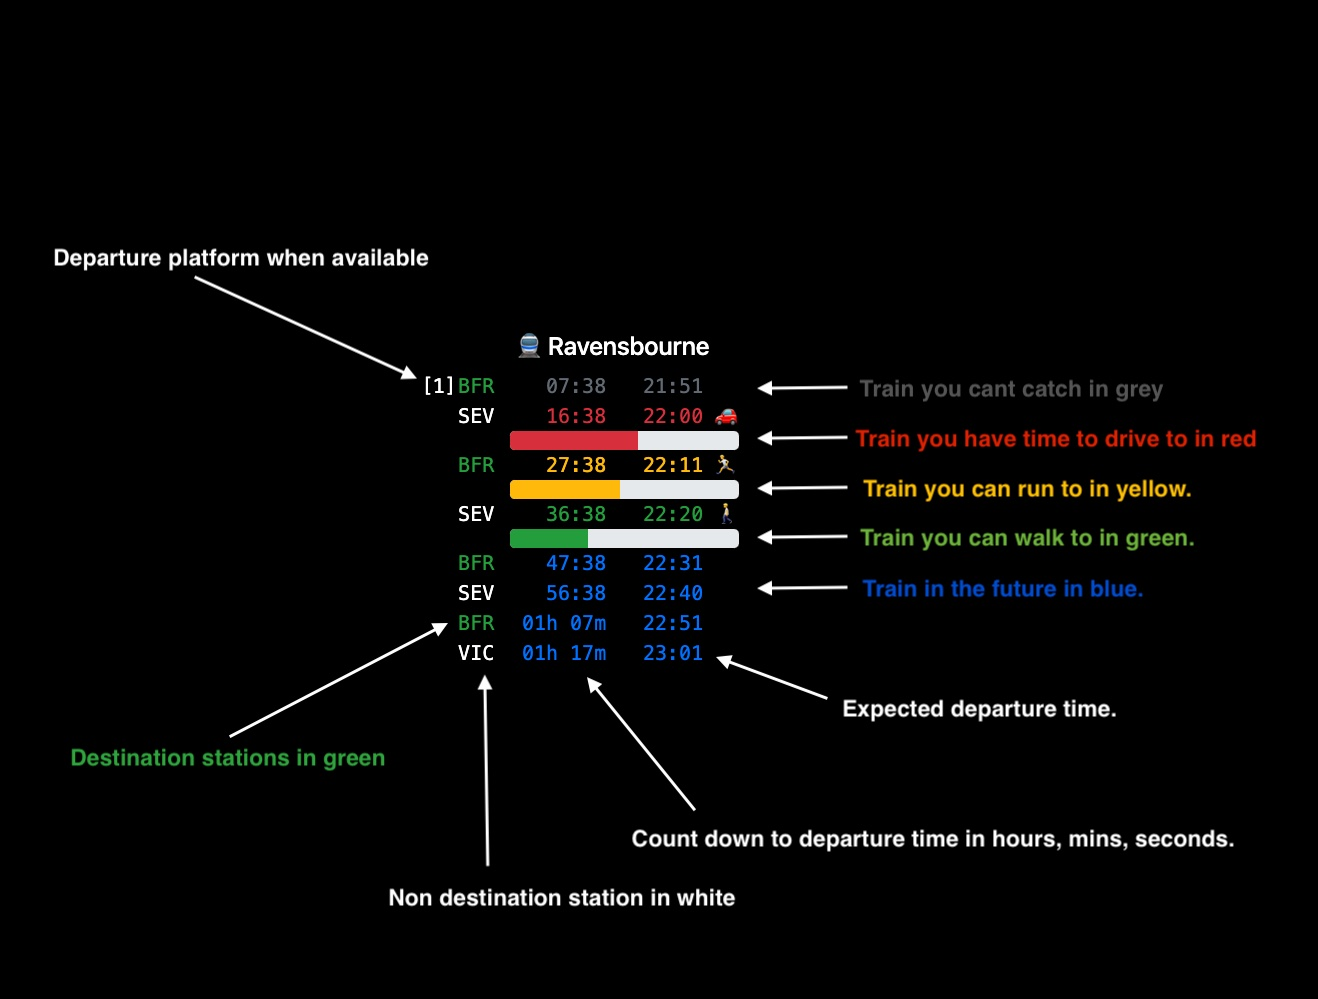
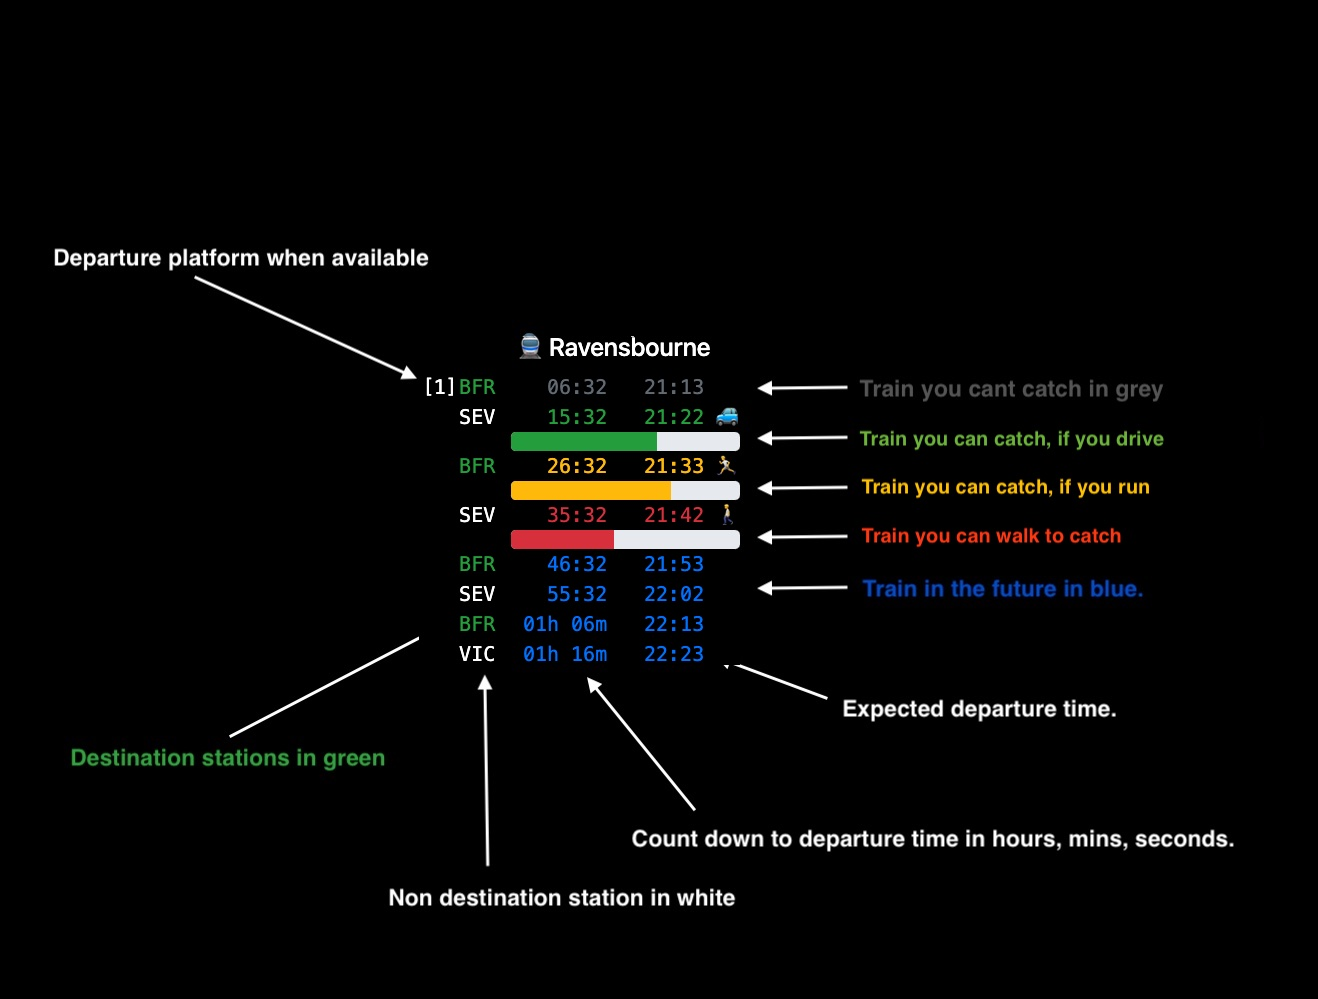
Reversing train transit colours - because ;)

Changed region(s): [[0.3111, 0.3413, 0.5599, 0.6827], [0.6533, 0.4344, 0.9643, 0.4965], [0.6533, 0.5275, 0.9021, 0.5586]]

diff --git a/website/js/travel.js b/website/js/travel.js
@@ -148,7 +148,7 @@ function get_boundary_window( transport, transportType, time ){
         boundaryWindow.start = transport.minimumRunTransitTimeStamp;
         boundaryWindow.end =  transport.minimumDriveTransitTimeStamp;
         boundaryWindow.name = ALMOST_OUT_OF_TIME;
-        boundaryWindow.emoji =  (transportType == SCHOOL_RUN ? " 👞" : " 🚗");
+        boundaryWindow.emoji =  (transportType == SCHOOL_RUN ? " 👞" : " 🚙");
     } else {
         if( transport.minimumDriveTransitTimeStamp ){
             boundaryWindow.start = transport.minimumDriveTransitTimeStamp;
@@ -167,9 +167,9 @@ function get_boundary_window( transport, transportType, time ){
 function get_class_for_boundary_window( boundaryWindow ){
     switch( boundaryWindow.name){
         case TOO_EARLY: return 'primary';
-        case PLENTY_OF_TIME: return 'success';
+        case PLENTY_OF_TIME: return 'danger';
         case MOVE_QUICKER_TIME: return 'warning';
-        case ALMOST_OUT_OF_TIME: return 'danger';
+        case ALMOST_OUT_OF_TIME: return 'success';
         case OUT_OF_TIME: return 'secondary';
         default: return '';
     }
